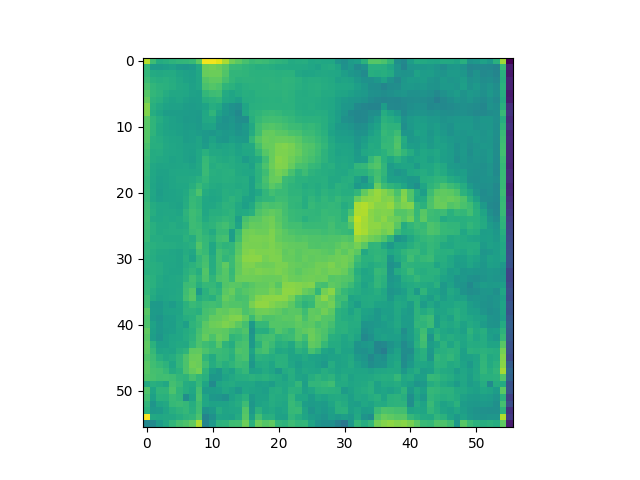
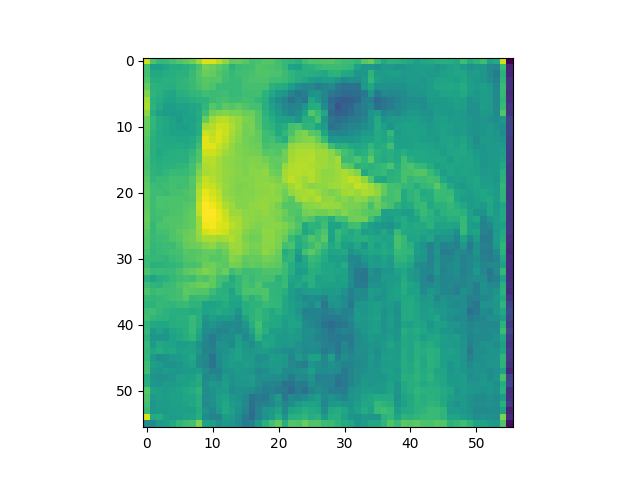
modified test time adaptation

diff --git a/test_adapt.py b/test_adapt.py
@@ -40,11 +40,11 @@ def extract_feature_gallery(model,dataloaders,linear_num,batchsize,concat,dve=No
                 f_dves = dve(input_img)[0]
                 flip_f_dves = dve(flip_inputs)[0]
                 if isinstance(model, torch.nn.DataParallel):
-                    feature = model.module.test_adapt(input_img, f_dves, probe_dve[0].cuda(), opt.shuffle, opt.simple,probe_xl2[0])
-                    flip_features = model.module.test_adapt(flip_inputs,flip_f_dves,probe_dve[1].cuda(),opt.shuffle, opt.simple,probe_xl2[1])
+                    feature = model.module.test_adapt(input_img, f_dves, probe_dve[0].cuda(), opt.shuffle, opt.simple,probe_xl2[0],opt.alpha)
+                    flip_features = model.module.test_adapt(flip_inputs,flip_f_dves,probe_dve[1].cuda(),opt.shuffle, opt.simple,probe_xl2[1],opt.alpha)
                 else:
-                    feature = model.test_adapt(input_img, f_dves, probe_dve[0], opt.shuffle, opt.simple,probe_xl2[0])
-                    flip_features = model.test_adapt(flip_inputs,flip_f_dves,probe_dve[1],opt.shuffle, opt.simple,probe_xl2[1])
+                    feature = model.test_adapt(input_img, f_dves, probe_dve[0], opt.shuffle, opt.simple,probe_xl2[0],opt.alpha)
+                    flip_features = model.test_adapt(flip_inputs,flip_f_dves,probe_dve[1],opt.shuffle, opt.simple,probe_xl2[1],opt.alpha)
                     
             else:
                 feature = model(input_img)[1]
@@ -140,10 +140,10 @@ def extract_feature_probe(model,dataloaders,linear_num,batchsize,concat,dve=None
             # ff += f_dves
                     
         # norm feature,if simple is true, shape is [B,512,56,56], otherwise shape is [B,512]
-        featurenorm = torch.norm(feature, p=2, dim=1, keepdim=True)
-        feature = feature.div(featurenorm.expand_as(feature))
-        flipfeaturenorm = torch.norm(flip_feature, p=2, dim=1, keepdim=True)
-        flip_feature = flip_feature.div(flipfeaturenorm.expand_as(flip_feature))
+        # featurenorm = torch.norm(feature, p=2, dim=1, keepdim=True)
+        # feature = feature.div(featurenorm.expand_as(feature))
+        # flipfeaturenorm = torch.norm(flip_feature, p=2, dim=1, keepdim=True)
+        # flip_feature = flip_feature.div(flipfeaturenorm.expand_as(flip_feature))
         
         f_dves = f_dves.reshape(f_dves.shape[0],f_dves.shape[1],-1) #[B,64,56,56]->[B,64,3136]
         f_dves_normed = f_dves.div(torch.norm(f_dves, p=2, dim=1, keepdim=True).expand_as(f_dves))
@@ -226,7 +226,7 @@ def eval_on_one(model,dve,dataset_type,data_transforms,linear_num,concat,seg=Tru
         my_result = []
         
         #for i in tqdm(range(dve_features.shape[0])):
-        for i in tqdm(range(10,11)):
+        for i in tqdm(range(10,40)):
             curr_query = [query_features[i],query_flip_features[i]] if opt.simple else [None,None]
             curr_query_dve = [dve_features[i],flip_dve_features[i]]
             gallery_features,gallery_labels,gallery_names = extract_feature_gallery(model,dataloaders['gallery'],linear_num,batch_size,concat,dve,curr_query_dve,curr_query)
@@ -234,7 +234,7 @@ def eval_on_one(model,dve,dataset_type,data_transforms,linear_num,concat,seg=Tru
             invalid_index=None
             if remove_closest:             
                 curr_query_name = query_names[i]
-                print(curr_query_name)
+                #print(curr_query_name)
                 invalid_index = gallery_names.index(curr_query_name)
             
             if opt.simple:
@@ -286,6 +286,7 @@ if __name__ == '__main__':
     parser.add_argument("-d", "--dataset_type", required=False, help="it can be tiger,s_yak,h_yak or elephant or all", default='tiger')
     parser.add_argument("-m", "--model_path", required=False, default=None)
     parser.add_argument('--gpu_ids',default='0', type=str,help='gpu_ids: e.g. 0  0,1,2  0,2')
+    parser.add_argument('--alpha',default=1.0, type=float,help='alpha for attention')
     parser.add_argument('--batchsize', default=32, type=int, help='batchsize')
     parser.add_argument('--linear_num', default=512, type=int, help='feature dimension: 512 or default or 0 (linear=False)')
     parser.add_argument('--use_swin', action='store_true',help='swin is used')
@@ -404,7 +405,9 @@ if __name__ == '__main__':
 
     con = 'concat_' if opt.concat else ''
     to = 'to_' if opt.transform_ori else ''
-    res_name = 'adapted_'+seg+ con+to+ name+str(seed)+'.txt'
+    shuffle = 'shuffle_' if opt.shuffle else ''
+    simple = 'simple_' if opt.simple else ''
+    res_name = 'adapted_'+str(opt.alpha)+shuffle+simple+seg+ con+to+ name+str(seed)+'.txt'
     
     if opt.model_path is not None:
         res_name = opt.dataset_type+'_'+opt.model_path.split('/')[-2]+'_'+opt.model_path.split('/')[-1][:-4]+'_'+res_name

diff --git a/model.py b/model.py
@@ -514,51 +514,63 @@ class tiger_cnn5_v1(nn.Module):
             x = self.model.backbone.layer0(x)
             x = self.model.backbone.layer1(x)
             x_l2 = self.model.backbone.layer2(x)
-            return x_l2
+            x_l3 = self.model.backbone.layer3(x_l2)
+            x_l4 = self.model.backbone.layer4(x_l3)
+
+           
+            return x_l4
         else:
             return self.forward(x)[1]
     
-    def test_adapt(self, x, dve_f, probe_dve_normed, shuffle = False, simple = False, probe_l2_norm= None):
+    def test_adapt(self, x, dve_f, probe_dve_normed, shuffle = False, simple = False, probe_l4= None, alpha = 1.0 ,softmax=False):
         #dve_f [B,64,56,56]-> [B,64,56*56] -> [B,56*56,64]
         #probe_dve_normed ([64,56,56] -> [64,56*56)
         B,D, H, W = dve_f.size()
         dve_f = dve_f.reshape(dve_f.shape[0],dve_f.shape[1],-1).transpose(1,2)
-        dve_f_norm = dve_f.div(torch.norm(dve_f,p=2, dim=1, keepdim=True).expand_as(dve_f))
+        dve_f_norm = dve_f.div(1e-12+torch.norm(dve_f,p=2, dim=1, keepdim=True).expand_as(dve_f))
         
         cos_sim = torch.matmul(dve_f_norm,probe_dve_normed) # [B,56*56,56*56]
         scores,positions = cos_sim.max(dim=2) # [B,56*56]
         #scores = cos_sim.sum(dim=2) # [B,56*56]
-        att = F.softmax(scores.view(B,1,-1), dim=2).view(B,1,H,W) # [B,1,56,56]
-        print('scores',scores)
-        print('att',att)
-        plt.imshow(att[0,0].detach().cpu().numpy())
-        plt.savefig('att.png')
+        if softmax:
+            att = F.softmax(scores.view(B,1,-1), dim=2).view(B,1,H,W) # [B,1,56,56]
+        else:
+            att = ((scores-scores.min(dim=1,keepdim=True)[0])/(scores.max(dim=1,keepdim=True)[0]-scores.min(dim=1,keepdim=True)[0])).view(B,1,H,W)
+            
+        # print('scores',scores)
+        # print('att',att.shape,att)
+        # plt.imshow(att[0,0].detach().cpu().numpy())
+        # plt.savefig('att.png')
         
         x = self.model.backbone.layer0(x)
         x = self.model.backbone.layer1(x)
         x_l2 = self.model.backbone.layer2(x) # [B,512,56,56]
+        x_l3 = self.model.backbone.layer3(x_l2)
+        x_l4 = self.model.backbone.layer4(x_l3)  # [B,2048,28,28]
+        x_l4 = F.interpolate(x_l4, size=x_l2.size()[2:], mode='bilinear', align_corners=True)
         
         if shuffle:
-            x_l2 = x_l2.reshape(B,-1,H*W).gather(2,positions.unsqueeze(1).expand(B,x_l2.shape[1],H*W))
-            x_l2 = x_l2.reshape(B,-1,H,W)
+            # x_l2 = x_l2.reshape(B,-1,H*W).gather(2,positions.unsqueeze(1).expand(B,x_l2.shape[1],H*W))
+            # x_l2 = x_l2.reshape(B,-1,H,W)
+            x_l4 = x_l4.reshape(B,-1,H*W).gather(2,positions.unsqueeze(1).expand(B,x_l4.shape[1],H*W))
+            x_l4 = x_l4.reshape(B,-1,H,W)
         
         if not simple:
-            x_l2 = torch.mul(att.expand_as(x_l2), x_l2)
-            x_l3 = self.model.backbone.layer3(x_l2)
-            x_l4 = self.model.backbone.layer4(x_l3)
+            
+            x_l4 = torch.mul(1 + alpha*att.expand_as(x_l4), x_l4)/(1.0+alpha)  # [B,2048,56,56]
             
             x = torch.mean(torch.mean(x_l4, dim=2), dim=2)
             x = self.classifier(x)
             
             return x[1]
         else:
-            assert probe_l2_norm is not None
-            # [B,512,56,56]
+            assert probe_l4 is not None
             
-            x_l2_norm = x_l2.div(torch.norm(x_l2, p=2, dim=1, keepdim=True).expand_as(x_l2))
+            x_l4_norm = x_l4.div(1e-12+torch.norm(x_l4, p=2, dim=1, keepdim=True).expand_as(x_l4)) # [B,2048,56,56]
             #probe_l2_norm = probe_l2.div(torch.norm(probe_l2, p=2, dim=1, keepdim=True).expand_as(probe_l2))
-            cos_dis = 1-torch.mul(x_l2_norm,probe_l2_norm.cuda()).sum(dim=1) # [B,56,56]
-            
+            probe_l4 = F.interpolate(probe_l4.unsqueeze(0), size=x_l2.size()[2:], mode='bilinear', align_corners=True)
+            probe_l4_norm = probe_l4.div(1e-12+torch.norm(probe_l4, p=2, dim=1, keepdim=True).expand_as(probe_l4))
+            cos_dis = 1-torch.mul(x_l4_norm,probe_l4_norm.cuda()).sum(dim=1) # [B,56,56]
             cos_dis = torch.mul(att.squeeze(1), cos_dis)#
             scores = cos_dis.sum(dim=1).sum(dim=1) # [B]
             return scores #negative sum of cosine similarity-> equivalent to cosine distance

diff --git a/test.py b/test.py
@@ -88,7 +88,7 @@ def extract_feature(model,dataloaders,linear_num,batchsize,concat,dve=None):
 
 
 
-def eval_on_one(model,dve,dataset_type,linear_num,concat,seg=True,batch_size=32):
+def eval_on_one(model,dve,dataset_type,linear_num,concat,seg=True,batch_size=32,sample=False):
     if dataset_type == 'tiger':
         data_transforms = transforms.Compose([
             # transforms.Resize((324,504), Image.BILINEAR),
@@ -150,7 +150,10 @@ def eval_on_one(model,dve,dataset_type,linear_num,concat,seg=True,batch_size=32)
     with torch.no_grad():
         gallery_feature,gallery_label,gallery_names = extract_feature(model,dataloaders['gallery'],linear_num,batch_size,concat,dve)
         query_feature, query_label,query_names = extract_feature(model,dataloaders['query'],linear_num,batch_size,concat,dve)
-    
+        if sample:
+            query_feature = query_feature[10:40,:]
+            query_label = query_label[10:40]
+            query_names = query_names[10:40]
     
     CMC,ap,q_g_dist = evaluate_CMC(query_feature, query_label, gallery_feature, gallery_label,remove_closest,'cos',True)
     
@@ -192,10 +195,10 @@ def evaluate(model,dve,opt):
     if opt.dataset_type == 'all':
         for dataset_type in ['tiger','h_yak','elephant']:   
             metrics[dataset_type]=eval_on_one(model,dve,dataset_type,opt.linear_num,
-                                              opt.concat,seg,opt.batchsize)
+                                              opt.concat,seg,opt.batchsize,opt.sample)
     else:
         metrics[opt.dataset_type]=eval_on_one(model,dve,opt.dataset_type,opt.linear_num,
-                                              opt.concat,seg,opt.batchsize)
+                                              opt.concat,seg,opt.batchsize,opt.sample)
     return metrics
         
     
@@ -214,13 +217,15 @@ if __name__ == '__main__':
     parser.add_argument('--way1_dve', action='store_true', help='use method1 for combining dve with re-id' )
     parser.add_argument('--name', default='ft_ResNet50', type=str, help='model name')
     parser.add_argument('--concat', action='store_true', help='concat flipped feature' )
-    #parser.add_argument('--ori_dim', action='store_true', help='use original input image dimension' )
+    parser.add_argument('--ori_dim', action='store_true', help='use original input image dimension' )
     parser.add_argument('--ori_stride', action='store_true', help='use original stride at layer 2' )
-    #parser.add_argument('--transform_ori', action='store_true', help='use original eval transform' )
+    parser.add_argument('--transform_ori', action='store_true', help='use original eval transform' )
     parser.add_argument('-r', '--resume', default=None, type=str,help='path to dve checkpoint (default: None)')
     parser.add_argument('--seed', default="0", help='random seed')
     parser.add_argument('--joint', action='store_true', help='trained joint or joint all' )
     parser.add_argument('--stacked', action='store_true', help='stack last 3 layers of backbone for dve loss.' )
+    parser.add_argument('--sample', action='store_true', help='sample 50 query' )
+   
     opt = parser.parse_args()
     ###load config###
     
@@ -273,6 +278,7 @@ if __name__ == '__main__':
             'h_yak_seg':'./data/yak_test_seg_isnet_pp',
             'h_yak_ori':'./data/val'
         }
+    
     seg = '_ori' if opt.use_ori else '_seg'
     
     
@@ -319,7 +325,9 @@ if __name__ == '__main__':
 
     con = 'concat_' if opt.concat else ''
     to = 'to_' if opt.transform_ori else ''
-    res_name = seg+ con+to+ name+str(seed)+'.txt'
+    sample = '_sample' if opt.sample else ''
+    
+    res_name = seg+ con+to+sample+ name+str(seed)+'.txt'
     
     if opt.model_path is not None:
         res_name = opt.dataset_type+'_'+opt.model_path.split('/')[-2]+'_'+opt.model_path.split('/')[-1][:-4]+'_'+res_name

diff --git a/train.py b/train.py
@@ -290,9 +290,7 @@ def train(model, criterion, optimizer, scheduler,dataloaders, num_epochs=25,writ
                     save_network(model,epoch,name)
                     
                     
-                if ap > best_ap:
-                    best_ap = ap
-                    save_network(model,epoch,name,best=True)
+                
                     
   
                 if opt.ent_cls:
@@ -323,6 +321,9 @@ def train(model, criterion, optimizer, scheduler,dataloaders, num_epochs=25,writ
                         test_metric_top1 = test_metric['Rank@1']
                     writer.add_scalar('test_Rank@1',test_metric_top1, epoch)
                     writer.add_scalar('test_mAP',test_metric_map, epoch)
+                    if test_metric_map > best_ap:
+                        best_ap = test_metric_map
+                        save_network(model,epoch,name,best=True)
                     
                 if opt.test_transfer and epoch % opt.test_freq == 0:
                     seg = '_seg' if ('Seg' in root) else '_ori'
@@ -534,7 +535,7 @@ if __name__ =='__main__':
 
     else:
         batchsize = opt.batch_size
-        if opt.joint_all and opt.triplet_sampler:
+        if (opt.joint_all or opt.joint)  and opt.triplet_sampler:
             batchsize  = opt.batch_size//3
         dataloaders = {'train': DataLoader(image_datasets['train'], batch_size=batchsize, collate_fn=collate_fn,drop_last=True,
                                                     shuffle=True, num_workers=2, pin_memory=True,

diff --git a/metric.py b/metric.py
@@ -96,7 +96,8 @@ def evaluate_rerank(score, ql, gl,remove_closest,invalid_index=None):
     
     if remove_closest:
         id_ind = index[0]
-        assert id_ind == invalid_index
+        if invalid_index is not None:
+            assert id_ind == invalid_index
         
         if torch.is_tensor(id_ind):
             id_ind = id_ind.item()
